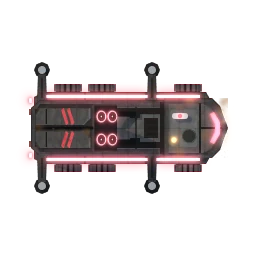
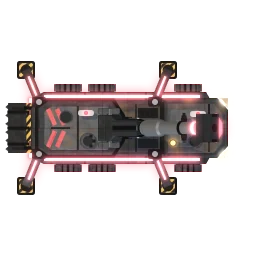
Install the Minigun Nest (base per colony, 16 gun directions, all times of day; tracers leave its barrel tips) and the Howitzer's 3D look (driving, and dug in with legs and spade out); the muzzle blast at the raised barrel's end
Claude-Session: https://claude.ai/code/session_01V2h7v62aKtUjiSis9CpfMQ

Changed region(s): [[0.0, 0.2188, 0.9062, 0.7812]]

diff --git a/art/tod/tod-keys.js b/art/tod/tod-keys.js
@@ -1,4 +1,4 @@
 'use strict';
 // Sprites with morning, evening and night versions at art/tod/<time>/<same path as the day art>
 // (installed from the Claude Design day/night kit; everything else is tinted in code).
-const TOD_KEYS = ["tradepost", "lander@0", "lander@1", "worker@0-f0", "worker@0-f1", "worker@0-f2", "worker@0-f3", "worker@1-f0", "worker@1-f1", "worker@1-f2", "worker@1-f3", "warbot@0-f0", "warbot@0-f1", "warbot@0-f2", "warbot@0-f3", "warbot@1-f0", "warbot@1-f1", "warbot@1-f2", "warbot@1-f3", "hauler@0-f0", "hauler@0-f1", "hauler@0-f2", "hauler@0-f3", "hauler@1-f0", "hauler@1-f1", "hauler@1-f2", "hauler@1-f3", "agribot@0-f0", "agribot@0-f1", "agribot@0-f2", "agribot@0-f3", "agribot@1-f0", "agribot@1-f1", "agribot@1-f2", "agribot@1-f3", "paver@0-f0", "paver@0-f1", "paver@0-f2", "paver@0-f3", "paver@1-f0", "paver@1-f1", "paver@1-f2", "paver@1-f3", "harvester@0", "harvester@1", "quarry@0", "quarry@1", "mine@0", "mine@1", "tap@0", "tap@1", "smelter@0", "smelter@1", "fab@0", "fab@1", "foundry@0", "foundry@1", "outpost@0", "outpost@1", "depot@0", "depot@1", "grower@0", "grower@1", "site@0", "site@1", "charger@0", "charger@1", "farm@0", "farm@1", "pump@0", "pump@1", "refinery@0", "refinery@1", "kiln@0", "kiln@1", "tarworks@0", "tarworks@1", "roadworks@0", "roadworks@1", "ramp@0", "ramp@1", "repair@0", "repair@1", "reactor@0", "reactor@1", "nukesilo@0", "nukesilo@1", "nukesilo-empty@0", "nukesilo-empty@1", "truck@0-f0", "truck@0-f1", "truck@0-f2", "truck@0-f3", "truck@1-f0", "truck@1-f1", "truck@1-f2", "truck@1-f3", "armory@0", "armory@1", "munitions@0", "munitions@1", "silo@0", "silo@1", "silo-empty@0", "silo-empty@1", "lab@0", "lab@1", "nest-1", "nest-2", "nest-3", "ropeway@0", "ropeway@1", "station@0", "station@1", "gondola@0", "gondola@1", "trader-ship", "roadtrain@0-f0", "roadtrain@0-f1", "roadtrain@0-f2", "roadtrain@0-f3", "roadtrain@1-f0", "roadtrain@1-f1", "roadtrain@1-f2", "roadtrain@1-f3", "roadtrain-trailer@0", "roadtrain-trailer@1", "freight-loco@0-f0", "freight-loco@0-f1", "freight-loco@0-f2", "freight-loco@0-f3", "freight-loco@1-f0", "freight-loco@1-f1", "freight-loco@1-f2", "freight-loco@1-f3", "freight-wagon-flat@0", "freight-wagon-flat@1", "freight-wagon-hopper@0", "freight-wagon-hopper@1", "crawler@0-f0", "crawler@0-f1", "crawler@0-f2", "crawler@0-f3", "crawler@0-f4", "crawler@0-f5", "crawler@0-f6", "crawler@0-f7", "crawler@1-f0", "crawler@1-f1", "crawler@1-f2", "crawler@1-f3", "crawler@1-f4", "crawler@1-f5", "crawler@1-f6", "crawler@1-f7", "crawler-deploy@0-d0", "crawler-deploy@0-d1", "crawler-deploy@0-d2", "crawler-deploy@0-d3", "crawler-deploy@0-d4", "crawler-deploy@0-d5", "crawler-deploy@0-d6", "crawler-deploy@0-d7", "crawler-deploy@0-d8", "crawler-deploy@0-d9", "crawlerbase@0", "crawler-deploy@1-d0", "crawler-deploy@1-d1", "crawler-deploy@1-d2", "crawler-deploy@1-d3", "crawler-deploy@1-d4", "crawler-deploy@1-d5", "crawler-deploy@1-d6", "crawler-deploy@1-d7", "crawler-deploy@1-d8", "crawler-deploy@1-d9", "crawlerbase@1", "crawler-dish", "scuttler-f0", "scuttler-f1", "scuttler-f2", "scuttler-f3", "brute-f0", "brute-f1", "brute-f2", "brute-f3", "rail-straight", "rail-curve", "rail-tee", "rail-cross", "rail-end", "rail-level-crossing", "rail-barrier-up", "rail-barrier-down", "bridge-ew", "bridge-ns", "bridge-end-w", "bridge-end-e", "bridge-end-n", "bridge-end-s", "bridge-ramp-w", "bridge-ramp-e", "bridge-ramp-n", "bridge-ramp-s", "bridge-pier", "skybridge-ew", "skybridge-ns", "skybridge-end-w", "skybridge-end-e", "skybridge-end-n", "skybridge-end-s", "skybridge-ramp-w", "skybridge-ramp-e", "skybridge-ramp-n", "skybridge-ramp-s", "skybridge-pier", "railbridge-ew", "railbridge-ns", "railbridge-end-w", "railbridge-end-e", "railbridge-end-n", "railbridge-end-s", "railbridge-ramp-w", "railbridge-ramp-e", "railbridge-ramp-n", "railbridge-ramp-s", "railbridge-pier", "skybridge-tower", "skybridge-cable", "bunker@0", "bunker@1", "disruptor@0", "disruptor@1", "mortar@0", "mortar@1", "mortar-head-0", "mortar-head-1", "mortar-head-2", "mortar-head-3", "mortar-head-4", "mortar-head-5", "mortar-head-6", "mortar-head-7", "mortar-head-8", "mortar-head-9", "mortar-head-10", "mortar-head-11", "mortar-head-12", "mortar-head-13", "mortar-head-14", "mortar-head-15", "generator@0", "generator@1", "tanker@0-f0", "tanker@0-f1", "tanker@0-f2", "tanker@0-f3", "tanker@1-f0", "tanker@1-f1", "tanker@1-f2", "tanker@1-f3", "turret@0", "turret@1", "turret-head-0@0", "turret-head-1@0", "turret-head-2@0", "turret-head-3@0", "turret-head-4@0", "turret-head-5@0", "turret-head-6@0", "turret-head-7@0", "turret-head-8@0", "turret-head-9@0", "turret-head-10@0", "turret-head-11@0", "turret-head-12@0", "turret-head-13@0", "turret-head-14@0", "turret-head-15@0", "turret-head-0@1", "turret-head-1@1", "turret-head-2@1", "turret-head-3@1", "turret-head-4@1", "turret-head-5@1", "turret-head-6@1", "turret-head-7@1", "turret-head-8@1", "turret-head-9@1", "turret-head-10@1", "turret-head-11@1", "turret-head-12@1", "turret-head-13@1", "turret-head-14@1", "turret-head-15@1", "wall-post@0", "wall-post@1", "wall-n@0", "wall-n@1", "wall-e@0", "wall-e@1", "wall-s@0", "wall-s@1", "wall-w@0", "wall-w@1", "wall-hub-ew@0", "wall-hub-ew@1", "wall-hub-ns@0", "wall-hub-ns@1", "gate-ew-closed@0", "gate-ew-closed@1", "gate-ew-open@0", "gate-ew-open@1", "gate-ns-closed@0", "gate-ns-closed@1", "gate-ns-open@0", "gate-ns-open@1", "pump-base@0", "pump-base@1", "pump-work-0", "pump-work-1", "pump-work-2", "pump-work-3", "pump-work-4", "pump-work-5", "pump-work-6", "pump-work-7", "generator-work-0", "generator-work-1", "generator-work-2", "generator-work-3", "generator-work-4", "generator-work-5", "generator-work-6", "generator-work-7", "viaduct-abut-w", "viaduct-abut-e", "viaduct-abut-n", "viaduct-abut-s", "port@0", "port@1", "cargoship@0", "cargoship@1", "tankship@0", "tankship@1", "ferry@0", "ferry@1", "airfield@0", "airfield@1", "dropost@0", "dropost@1", "cargoplane@0", "cargoplane@1", "bomber@0", "bomber@1", "flak@0", "flak@1", "keep@0", "keep@1", "terminal@0", "terminal@1", "keep-head-0", "keep-head-1", "keep-head-2", "keep-head-3", "keep-head-4", "keep-head-5", "keep-head-6", "keep-head-7", "keep-head-8", "keep-head-9", "keep-head-10", "keep-head-11", "keep-head-12", "keep-head-13", "keep-head-14", "keep-head-15",  "flak-head-0", "flak-head-1", "flak-head-2", "flak-head-3", "flak-head-4", "flak-head-5", "flak-head-6", "flak-head-7", "flak-head-8", "flak-head-9", "flak-head-10", "flak-head-11", "flak-head-12", "flak-head-13", "flak-head-14", "flak-head-15", "chute-fall@0", "chute-fall@1", "chute@0", "chute@1", "crate-drop@0", "crate-drop@1", "chute-flat@0", "chute-flat@1"];
+const TOD_KEYS = ["tradepost", "lander@0", "lander@1", "worker@0-f0", "worker@0-f1", "worker@0-f2", "worker@0-f3", "worker@1-f0", "worker@1-f1", "worker@1-f2", "worker@1-f3", "warbot@0-f0", "warbot@0-f1", "warbot@0-f2", "warbot@0-f3", "warbot@1-f0", "warbot@1-f1", "warbot@1-f2", "warbot@1-f3", "hauler@0-f0", "hauler@0-f1", "hauler@0-f2", "hauler@0-f3", "hauler@1-f0", "hauler@1-f1", "hauler@1-f2", "hauler@1-f3", "agribot@0-f0", "agribot@0-f1", "agribot@0-f2", "agribot@0-f3", "agribot@1-f0", "agribot@1-f1", "agribot@1-f2", "agribot@1-f3", "paver@0-f0", "paver@0-f1", "paver@0-f2", "paver@0-f3", "paver@1-f0", "paver@1-f1", "paver@1-f2", "paver@1-f3", "harvester@0", "harvester@1", "quarry@0", "quarry@1", "mine@0", "mine@1", "tap@0", "tap@1", "smelter@0", "smelter@1", "fab@0", "fab@1", "foundry@0", "foundry@1", "outpost@0", "outpost@1", "depot@0", "depot@1", "grower@0", "grower@1", "site@0", "site@1", "charger@0", "charger@1", "farm@0", "farm@1", "pump@0", "pump@1", "refinery@0", "refinery@1", "kiln@0", "kiln@1", "tarworks@0", "tarworks@1", "roadworks@0", "roadworks@1", "ramp@0", "ramp@1", "repair@0", "repair@1", "reactor@0", "reactor@1", "nukesilo@0", "nukesilo@1", "nukesilo-empty@0", "nukesilo-empty@1", "truck@0-f0", "truck@0-f1", "truck@0-f2", "truck@0-f3", "truck@1-f0", "truck@1-f1", "truck@1-f2", "truck@1-f3", "armory@0", "armory@1", "munitions@0", "munitions@1", "silo@0", "silo@1", "silo-empty@0", "silo-empty@1", "lab@0", "lab@1", "nest-1", "nest-2", "nest-3", "ropeway@0", "ropeway@1", "station@0", "station@1", "gondola@0", "gondola@1", "trader-ship", "roadtrain@0-f0", "roadtrain@0-f1", "roadtrain@0-f2", "roadtrain@0-f3", "roadtrain@1-f0", "roadtrain@1-f1", "roadtrain@1-f2", "roadtrain@1-f3", "roadtrain-trailer@0", "roadtrain-trailer@1", "freight-loco@0-f0", "freight-loco@0-f1", "freight-loco@0-f2", "freight-loco@0-f3", "freight-loco@1-f0", "freight-loco@1-f1", "freight-loco@1-f2", "freight-loco@1-f3", "freight-wagon-flat@0", "freight-wagon-flat@1", "freight-wagon-hopper@0", "freight-wagon-hopper@1", "crawler@0-f0", "crawler@0-f1", "crawler@0-f2", "crawler@0-f3", "crawler@0-f4", "crawler@0-f5", "crawler@0-f6", "crawler@0-f7", "crawler@1-f0", "crawler@1-f1", "crawler@1-f2", "crawler@1-f3", "crawler@1-f4", "crawler@1-f5", "crawler@1-f6", "crawler@1-f7", "crawler-deploy@0-d0", "crawler-deploy@0-d1", "crawler-deploy@0-d2", "crawler-deploy@0-d3", "crawler-deploy@0-d4", "crawler-deploy@0-d5", "crawler-deploy@0-d6", "crawler-deploy@0-d7", "crawler-deploy@0-d8", "crawler-deploy@0-d9", "crawlerbase@0", "crawler-deploy@1-d0", "crawler-deploy@1-d1", "crawler-deploy@1-d2", "crawler-deploy@1-d3", "crawler-deploy@1-d4", "crawler-deploy@1-d5", "crawler-deploy@1-d6", "crawler-deploy@1-d7", "crawler-deploy@1-d8", "crawler-deploy@1-d9", "crawlerbase@1", "crawler-dish", "scuttler-f0", "scuttler-f1", "scuttler-f2", "scuttler-f3", "brute-f0", "brute-f1", "brute-f2", "brute-f3", "rail-straight", "rail-curve", "rail-tee", "rail-cross", "rail-end", "rail-level-crossing", "rail-barrier-up", "rail-barrier-down", "bridge-ew", "bridge-ns", "bridge-end-w", "bridge-end-e", "bridge-end-n", "bridge-end-s", "bridge-ramp-w", "bridge-ramp-e", "bridge-ramp-n", "bridge-ramp-s", "bridge-pier", "skybridge-ew", "skybridge-ns", "skybridge-end-w", "skybridge-end-e", "skybridge-end-n", "skybridge-end-s", "skybridge-ramp-w", "skybridge-ramp-e", "skybridge-ramp-n", "skybridge-ramp-s", "skybridge-pier", "railbridge-ew", "railbridge-ns", "railbridge-end-w", "railbridge-end-e", "railbridge-end-n", "railbridge-end-s", "railbridge-ramp-w", "railbridge-ramp-e", "railbridge-ramp-n", "railbridge-ramp-s", "railbridge-pier", "skybridge-tower", "skybridge-cable", "bunker@0", "bunker@1", "disruptor@0", "disruptor@1", "mortar@0", "mortar@1", "mortar-head-0", "mortar-head-1", "mortar-head-2", "mortar-head-3", "mortar-head-4", "mortar-head-5", "mortar-head-6", "mortar-head-7", "mortar-head-8", "mortar-head-9", "mortar-head-10", "mortar-head-11", "mortar-head-12", "mortar-head-13", "mortar-head-14", "mortar-head-15", "generator@0", "generator@1", "tanker@0-f0", "tanker@0-f1", "tanker@0-f2", "tanker@0-f3", "tanker@1-f0", "tanker@1-f1", "tanker@1-f2", "tanker@1-f3", "turret@0", "turret@1", "turret-head-0@0", "turret-head-1@0", "turret-head-2@0", "turret-head-3@0", "turret-head-4@0", "turret-head-5@0", "turret-head-6@0", "turret-head-7@0", "turret-head-8@0", "turret-head-9@0", "turret-head-10@0", "turret-head-11@0", "turret-head-12@0", "turret-head-13@0", "turret-head-14@0", "turret-head-15@0", "turret-head-0@1", "turret-head-1@1", "turret-head-2@1", "turret-head-3@1", "turret-head-4@1", "turret-head-5@1", "turret-head-6@1", "turret-head-7@1", "turret-head-8@1", "turret-head-9@1", "turret-head-10@1", "turret-head-11@1", "turret-head-12@1", "turret-head-13@1", "turret-head-14@1", "turret-head-15@1", "wall-post@0", "wall-post@1", "wall-n@0", "wall-n@1", "wall-e@0", "wall-e@1", "wall-s@0", "wall-s@1", "wall-w@0", "wall-w@1", "wall-hub-ew@0", "wall-hub-ew@1", "wall-hub-ns@0", "wall-hub-ns@1", "gate-ew-closed@0", "gate-ew-closed@1", "gate-ew-open@0", "gate-ew-open@1", "gate-ns-closed@0", "gate-ns-closed@1", "gate-ns-open@0", "gate-ns-open@1", "pump-base@0", "pump-base@1", "pump-work-0", "pump-work-1", "pump-work-2", "pump-work-3", "pump-work-4", "pump-work-5", "pump-work-6", "pump-work-7", "generator-work-0", "generator-work-1", "generator-work-2", "generator-work-3", "generator-work-4", "generator-work-5", "generator-work-6", "generator-work-7", "viaduct-abut-w", "viaduct-abut-e", "viaduct-abut-n", "viaduct-abut-s", "port@0", "port@1", "cargoship@0", "cargoship@1", "tankship@0", "tankship@1", "ferry@0", "ferry@1", "airfield@0", "airfield@1", "dropost@0", "dropost@1", "cargoplane@0", "cargoplane@1", "bomber@0", "bomber@1", "flak@0", "flak@1", "keep@0", "keep@1", "terminal@0", "terminal@1", "keep-head-0", "keep-head-1", "keep-head-2", "keep-head-3", "keep-head-4", "keep-head-5", "keep-head-6", "keep-head-7", "keep-head-8", "keep-head-9", "keep-head-10", "keep-head-11", "keep-head-12", "keep-head-13", "keep-head-14", "keep-head-15",  "minigun@0", "minigun@1", "minigun-head-0", "minigun-head-1", "minigun-head-2", "minigun-head-3", "minigun-head-4", "minigun-head-5", "minigun-head-6", "minigun-head-7", "minigun-head-8", "minigun-head-9", "minigun-head-10", "minigun-head-11", "minigun-head-12", "minigun-head-13", "minigun-head-14", "minigun-head-15", "flak-head-0", "flak-head-1", "flak-head-2", "flak-head-3", "flak-head-4", "flak-head-5", "flak-head-6", "flak-head-7", "flak-head-8", "flak-head-9", "flak-head-10", "flak-head-11", "flak-head-12", "flak-head-13", "flak-head-14", "flak-head-15", "chute-fall@0", "chute-fall@1", "chute@0", "chute@1", "crate-drop@0", "crate-drop@1", "chute-flat@0", "chute-flat@1"];

diff --git a/renderer/b/howitzer.js b/renderer/b/howitzer.js
@@ -5,8 +5,9 @@
 // muzzle brake. Top-down, orthographic, facing +x, no ground (the game draws its shadow); 10 world units across the
 // frame, the hull about 7.7 long and 3.2 wide (kit px: 1 px = 1/25.6 unit), the barrel overhanging the nose in travel.
 //   ?part=drive  travelling: the barrel lowered and laid forward over the cab in its travel lock, legs stowed, spade up
-//   ?part=up     dug in: the barrel raised steeply, the travel lock folded flat, four stabiliser legs out at the
-//                corners onto foot pads, the recoil spade down behind the hull
+//   ?part=up     dug in: the barrel raised steeply (about 41 degrees, the muzzle brake over the cab's prow), the
+//                travel lock's clamp open and empty, four stabiliser legs out at the corners onto hazard-striped foot
+//                pads, the toothed recoil spade down behind the hull
 // Mark: muzzle (the centre of the barrel's mouth, in both poses).
 import { lancer } from './lancertruck.js';
 export const config = { pad: false, size: 512 };
@@ -14,10 +15,10 @@ export default function (L) {
   const { M, TEAM, THREE } = L;
   const part = new URLSearchParams(location.search).get('part') || 'drive', up = part === 'up';
   L.seed(613);
-  const V = lancer(L), { R, k, m, mir } = V, { rect, rr, poly, ext, disc, strip, tyre, grime, eye, beamL, hazard, G } = R;
+  const V = lancer(L), { R, k, m, mir } = V, { rect, rr, poly, ext, disc, strip, tyre, grime, beamL, hazard, G } = R;
   const { armor, top, roof, dark, black, glow, steel, seam } = m;
   const team = M.emit(TEAM, 0.9), paintT = M.paint(TEAM, { rivets: false }), haz = hazard('#f0a030');
-  const gun = M.plain('#3e454c', 0.42, 0.7), gunD = M.plain('#25292d', 0.5, 0.6), pad = M.plain('#24272b', 0.7, 0.4);
+  const gun = M.plain('#757d85', 0.48, 0.4), gunD = M.plain('#25292d', 0.5, 0.6), brakeM = M.plain('#4a5158', 0.45, 0.6), pad = M.plain('#24272b', 0.7, 0.4);
 
   // ---- running gear: three axles a side (one under the cab, a close pair under the gun), outer half showing
   for (const x of [60, -26, -60]) for (const s of [-1, 1]) tyre(x, s * 36, 14, 16, { blocks: 14 });
@@ -31,7 +32,7 @@ export default function (L) {
 
   // ---- the hull: armoured bed under the gun house, a deck plate, an ammunition hatch between gun house and cab
   ext(poly([[36, -28], [-88, -28], [-97, -20], [-97, 20], [-88, 28], [36, 28]]), 0.4, 0.95, armor, { bevel: 0.08 });
-  ext(rr(-92, -24, 126, 48, 4), 1.35, 0.06, top, { bevel: 0.02 });
+  ext(rr(-92, -24, 126, 48, 4), 1.35, 0.06, M.paint('#41474e'), { bevel: 0.02 });
   for (const x of [-30, 8]) strip(x, -24, x, 24, 1.5, 1.42, 0.01, seam);
   grime(-94, -28, 130, 56, 1.42, 0.8, 41);
   rect(10, -20, 20, 10, 1.41, 0.05, dark, { dirt: 0 });                                   // ammunition hatch (left of the barrel)
@@ -59,6 +60,7 @@ export default function (L) {
 
   // ---- the gun house: a big angular armoured box on the rear deck, wedge-faced toward the front
   const T0 = 1.3, TH = 1.0, TT = T0 + TH + 0.12;                                             // TT: top of the roof plate
+  ext(poly([[-3, -13], [-14, -30], [-81, -30], [-93, -21], [-93, 21], [-81, 30], [-14, 30], [-3, 13]]), 1.38, 0.06, black, { bevel: 0.01, dirt: 0, cast: false }); // dark ring gap round its foot
   ext(poly([[-6, -12], [-16, -27], [-80, -27], [-90, -20], [-90, 20], [-80, 27], [-16, 27], [-6, 12]]), T0, TH, armor, { bevel: 0.08 });
   ext(poly([[-12, -10], [-20, -22], [-77, -22], [-84, -16], [-84, 16], [-77, 22], [-20, 22], [-12, 10]]), T0 + TH - 0.02, 0.14, roof, { bevel: 0.04 });
   for (const [a, b, c, d] of [[-50, -22, -50, 22], [-77, 0, -58, 0]]) strip(a, b, c, d, 1.6, TT + 0.005, 0.01, seam);
@@ -85,34 +87,36 @@ export default function (L) {
   L.hcyl(3.2 * k, 38 * k, steel, TX * k, HT, 0, R.O({ axis: 'z', seg: 16, dirt: 0 }));
 
   // ---- the gun: everything below rotates about the trunnion; local x along the barrel, local y up
-  const th = up ? +(new URLSearchParams(location.search).get('el') || 0.8) : 0;
+  const th = up ? 0.72 : 0;                                                                // dug in: about 41 degrees
   const gg = L.group(TX * k, HT, 0, 0, G); gg.rotation.z = th;
   const P = (o = {}) => Object.assign({ parent: gg, dirt: 0 }, o);
   // mantlet: a chamfered armour block round the barrel's root
   ext(poly([[-10, -13], [6, -13], [13, -8], [13, 8], [6, 13], [-10, 13]]), -0.3, 0.6, armor, { parent: gg, bevel: 0.06, dirt: 0.2 });
   // cradle sleeve with two recoil cylinders along its top
-  L.hcyl(8 * k, 30 * k, gunD, 26 * k, 0, 0, P({ seg: 28 }));
-  for (const s of [-1, 1]) L.hcyl(2.4 * k, 34 * k, steel, 28 * k, 0.3, s * 4.5 * k, P({ seg: 14 }));
+  L.hcyl(9 * k, 30 * k, gunD, 26 * k, 0, 0, P({ seg: 28 }));
+  for (const s of [-1, 1]) L.hcyl(2.6 * k, 34 * k, steel, 28 * k, 0.33, s * 5 * k, P({ seg: 14 }));
   // the tube, tapering slightly toward the muzzle
   const B0 = 40, B1 = 124;
-  const tube = new THREE.CylinderGeometry(5.0 * k, 6.2 * k, (B1 - B0) * k, 32, 1); tube.rotateZ(-Math.PI / 2);
+  const tube = new THREE.CylinderGeometry(5.8 * k, 7.0 * k, (B1 - B0) * k, 32, 1); tube.rotateZ(-Math.PI / 2);
   L.mesh(tube, gun, (B0 + B1) / 2 * k, 0, 0, P());
   // fume extractor: a swelling a third of the way along
   const FE0 = 50, FE1 = 68;
-  const fe = new THREE.CylinderGeometry(7.4 * k, 7.4 * k, (FE1 - FE0) * k, 32, 1); fe.rotateZ(-Math.PI / 2);
+  const fe = new THREE.CylinderGeometry(8.6 * k, 8.6 * k, (FE1 - FE0) * k, 32, 1); fe.rotateZ(-Math.PI / 2);
   L.mesh(fe, gun, (FE0 + FE1) / 2 * k, 0, 0, P());
-  for (const [x, rT, rB] of [[FE0 - 1.25, 7.4, 6.0], [FE1 + 1.25, 5.8, 7.4]]) {
+  for (const [x, rT, rB] of [[FE0 - 1.25, 8.6, 6.8], [FE1 + 1.25, 6.6, 8.6]]) {
     const g = new THREE.CylinderGeometry(rT * k, rB * k, 2.5 * k, 32, 1); g.rotateZ(-Math.PI / 2); L.mesh(g, gun, x * k, 0, 0, P());
   }
   // team-lit band behind the muzzle brake
-  L.hcyl(5.6 * k, 4 * k, team, 114 * k, 0, 0, P({ seg: 28, cast: false }));
+  L.hcyl(6.6 * k, 4 * k, team, 114 * k, 0, 0, P({ seg: 28, cast: false }));
+  for (const x of [44, 96]) L.hcyl(7.2 * k, 2.5 * k, gunD, x * k, 0, 0, P({ seg: 28 }));     // clamp rings
   // double-baffle muzzle brake: two broad blocks with the bore showing between them, a dark mouth at the front
-  for (const [x0, x1] of [[123, 130], [132, 139]]) {
-    L.box((x1 - x0) * k, 0.44, 22 * k, gunD, (x0 + x1) / 2 * k, -0.22, 0, P());
-    L.box((x1 - x0 - 2) * k, 0.02, 20 * k, gun, (x0 + x1) / 2 * k, 0.22, 0, P({ cast: false }));
+  const BW = 28;
+  for (const [x0, x1] of [[120, 128.5], [131, 139]]) {
+    L.box((x1 - x0) * k, 0.5, BW * k, brakeM, (x0 + x1) / 2 * k, -0.25, 0, P());
+    for (const s of [-1, 1]) L.box((x1 - x0 + 0.4) * k, 0.3, 3 * k, black, (x0 + x1) / 2 * k, -0.15, s * (BW / 2 - 1.3) * k, P({ cast: false })); // side ports
   }
-  L.hcyl(4.8 * k, 3 * k, gun, 131 * k, 0, 0, P({ seg: 24 }));
-  L.hcyl(3.4 * k, 0.6 * k, black, 139.2 * k, 0, 0, P({ seg: 24 }));
+  L.hcyl(5.2 * k, 3 * k, gunD, 131 * k, 0, 0, P({ seg: 24 }));
+  L.hcyl(4.2 * k, 0.6 * k, black, 139.2 * k, 0, 0, P({ seg: 24 }));
   L.mark('muzzle', 139.5 * k, 0, 0, gg);
 
   // elevating rams from the front of the gun house up to the cradle's belly
@@ -124,22 +128,15 @@ export default function (L) {
     beamL(A, M2, 0.17, 0.17, gunD, { dirt: 0 }); beamL(M2, B, 0.1, 0.1, steel, { dirt: 0 });
   }
 
-  // ---- the travel lock on the back of the cab roof: a crutch that holds the barrel in travel, folded flat when dug in
-  const xl = 56, yb = C.yu + 0.07;
-  if (!up) {
-    const yt = HT - 6.1 * k;                                                                // the barrel's underside over the lock
-    for (const s of [-1, 1]) beamL([xl * k, yb, s * 13 * k], [xl * k, yt - 0.05, s * 5 * k], 0.12, 0.12, steel, { dirt: 0 });
-    rect(xl - 3, -9, 6, 18, yt - 0.08, 0.08, dark, { dirt: 0 });                              // the saddle
-    for (const s of [-1, 1]) rect(xl - 2.5, s * 8.5 - 1.5, 5, 3, yt - 0.08, 0.34, dark, { dirt: 0 }); // clamp jaws either side of the tube
-  } else {
-    for (const s of [-1, 1]) strip(xl + 1, s * 13, xl - 11, s * 5, 3.5, yb, 0.08, steel, { cast: true });
-    rect(xl - 15, -7, 5, 14, yb, 0.1, dark, { dirt: 0 });
-    for (const s of [-1, 1]) rect(xl - 14.5, s * 6.5 - 1.5, 4, 3, yb, 0.22, dark, { dirt: 0 });
-  }
+  // ---- the travel lock on the back of the cab roof: a crutch whose clamp holds the barrel in travel (left open, empty, when dug in)
+  const xl = 56, yb = C.yu + 0.07, yt = HT - 7.1 * k;                                       // yt: the barrel's underside over the lock
+  for (const s of [-1, 1]) beamL([xl * k, yb, s * 14 * k], [xl * k, yt - 0.05, s * 6 * k], 0.12, 0.12, steel, { dirt: 0 });
+  rect(xl - 3, -10, 6, 20, yt - 0.08, 0.08, dark, { dirt: 0 });                              // the saddle
+  for (const s of [-1, 1]) rect(xl - 2.5, s * (up ? 11 : 9.5) - 1.5, 5, 3, yt - 0.08, 0.36, dark, { dirt: 0 }); // clamp jaws (swung open when dug in)
 
   // ---- the recoil spade: a toothed blade hinged under the tail, folded up in travel, dug into the ground behind
   const SPX = -95, SPH = 0.82, SL = 30;
-  const sp = L.group(SPX * k, SPH, 0, 0, G); sp.rotation.z = up ? 0.64 : -1.32;
+  const sp = L.group(SPX * k, SPH, 0, 0, G); sp.rotation.z = up ? 0.64 : -1.45;
   const S = (o = {}) => Object.assign({ parent: sp, dirt: 0 }, o);
   L.hcyl(0.07, 48 * k, steel, 0, 0, 0, S({ axis: 'z', seg: 12 }));
   L.box(SL * k, 0.1, 50 * k, armor, -SL / 2 * k, -0.05, 0, S({ dirt: 0.3 }));

diff --git a/art/art-manifest.js b/art/art-manifest.js
@@ -179,6 +179,7 @@ const ART_MANIFEST = {
   'dropost@0': B3D('buildings/dropost@0.webp', 2.3),
   'dropost@1': B3D('buildings/dropost@1.webp', 2.3),
   'flak@0': B3D('buildings/flak@0.webp', 1.3), 'flak@1': B3D('buildings/flak@1.webp', 1.3),
+  'minigun@0': B3D('buildings/minigun@0.webp', 1.3), 'minigun@1': B3D('buildings/minigun@1.webp', 1.3),
   // The Rocket Truck (renderer/b/rockettruck.js): top-down, driving, and with its rack raised to fire.
   'rocket@0-f0': { src: 'bots/rocket@0-f0.webp', shadow: true }, 'rocket@1-f0': { src: 'bots/rocket@1-f0.webp', shadow: true },
   'rocket-up@0': { src: 'bots/rocket-up@0.webp', shadow: true }, 'rocket-up@1': { src: 'bots/rocket-up@1.webp', shadow: true },
@@ -188,6 +189,7 @@ const ART_MANIFEST = {
   'terminal@0': B3D('buildings/terminal@0.webp', 1.6), 'terminal@1': B3D('buildings/terminal@1.webp', 1.6),
   ...(() => { const o = {}; for (let k = 0; k < 16; k++) o[`keep-head-${k}`] = B3D(`buildings/keep-head-${k}.webp`, 1.65); for (let f = 0; f < 6; f++) o[`keep-spark-${f}`] = B3D(`buildings/keep-spark-${f}.webp`, 1.65); return o; })(),
   ...(() => { const o = {}; for (let k = 0; k < 16; k++) o[`flak-head-${k}`] = B3D(`buildings/flak-head-${k}.webp`, 1.3); return o; })(),
+  ...(() => { const o = {}; for (let k = 0; k < 16; k++) o[`minigun-head-${k}`] = B3D(`buildings/minigun-head-${k}.webp`, 1.3); return o; })(),
   // Air drops (renderer/b/airdrop.js): a crate under its parachute, a canopy, a landed crate, a spent parachute.
   ...Object.fromEntries(['chute-fall', 'chute', 'crate-drop', 'chute-flat'].flatMap((k) => [0, 1].map((t) => [`${k}@${t}`, `bots/${k}@${t}.webp`]))),
   'cargoplane@0': 'bots/cargoplane@0.webp',

diff --git a/js/sim.js b/js/sim.js
@@ -4363,8 +4363,8 @@ function launchRocket(u, b) {
   const k = S.tick + u.id * 7 + u.rockets;
   const x1 = b.x + 0.5 + (hash2(k, u.id, 3) - 0.5) * 2 * ROCKET.scatter, y1 = b.y + 0.5 + (hash2(u.id, k, 5) - 0.5) * 2 * ROCKET.scatter;
   const d = dist(u.x, u.y, x1, y1);
-  const mx = u.x + Math.cos(u.face) * 0.62, my = u.y + Math.sin(u.face) * 0.62 - 0.25; // the barrel's end, raised
-  S.missiles.push({ rocket: true, owner: u.owner, from: u.id, target: b.id, t: 0, dur: Math.max(1.2, d / ROCKET.speed), x0: mx, y0: my + 0.25, x1, y1 });
+  const mx = u.x + Math.cos(u.face) * 0.26, my = u.y + Math.sin(u.face) * 0.26; // the raised barrel's end (its muzzle mark, dug in: 0.34 of the sprite ahead)
+  S.missiles.push({ rocket: true, owner: u.owner, from: u.id, target: b.id, t: 0, dur: Math.max(1.2, d / ROCKET.speed), x0: mx, y0: my, x1, y1 });
   addFx('muzzle', mx, my, { a: u.face, color: '#ffd27a', life: 0.16, big: true });
   addFx('flash', mx, my, { r: 0.6, life: 0.12 });
   addFx('smoke', mx, my, { r: 0.55, life: 1.6 });

diff --git a/art/emitters.js b/art/emitters.js
@@ -11,3 +11,4 @@ const GENERATOR_FILL = [123.5, 432.4];
 // The Pulse Turret's beam start for each of its 16 head directions: between the two barrel tips, in pixels
 // of the head's 512 canvas (renderer/post/pulsefx.py, pulse-muzzles.json).
 const PULSE_MUZZLES = [[412.8,266.4],[404.2,318.2],[371.7,363.9],[319.4,395.5],[256.0,406.8],[192.6,395.5],[140.3,363.9],[107.8,318.2],[99.2,266.4],[114.3,217.0],[149.5,176.7],[199.0,150.6],[256.0,141.6],[313.0,150.6],[362.5,176.7],[397.7,217.0]];
+const MINIGUN_MUZZLES = Object.assign([[365.0,277.2],[358.3,313.1],[335.4,344.5],[299.4,365.9],[256.0,373.5],[212.6,365.9],[176.6,344.5],[153.7,313.1],[147.0,277.2],[156.8,242.5],[181.1,213.9],[215.8,195.1],[256.0,188.6],[296.2,195.1],[330.9,213.9],[355.2,242.5]], { scale: 1.3 }); // the Minigun Nest's barrel tips (renderer/out/minigun/muzzles.json): pixels in the head's 512 canvas, drawn 1.3 tiles across
